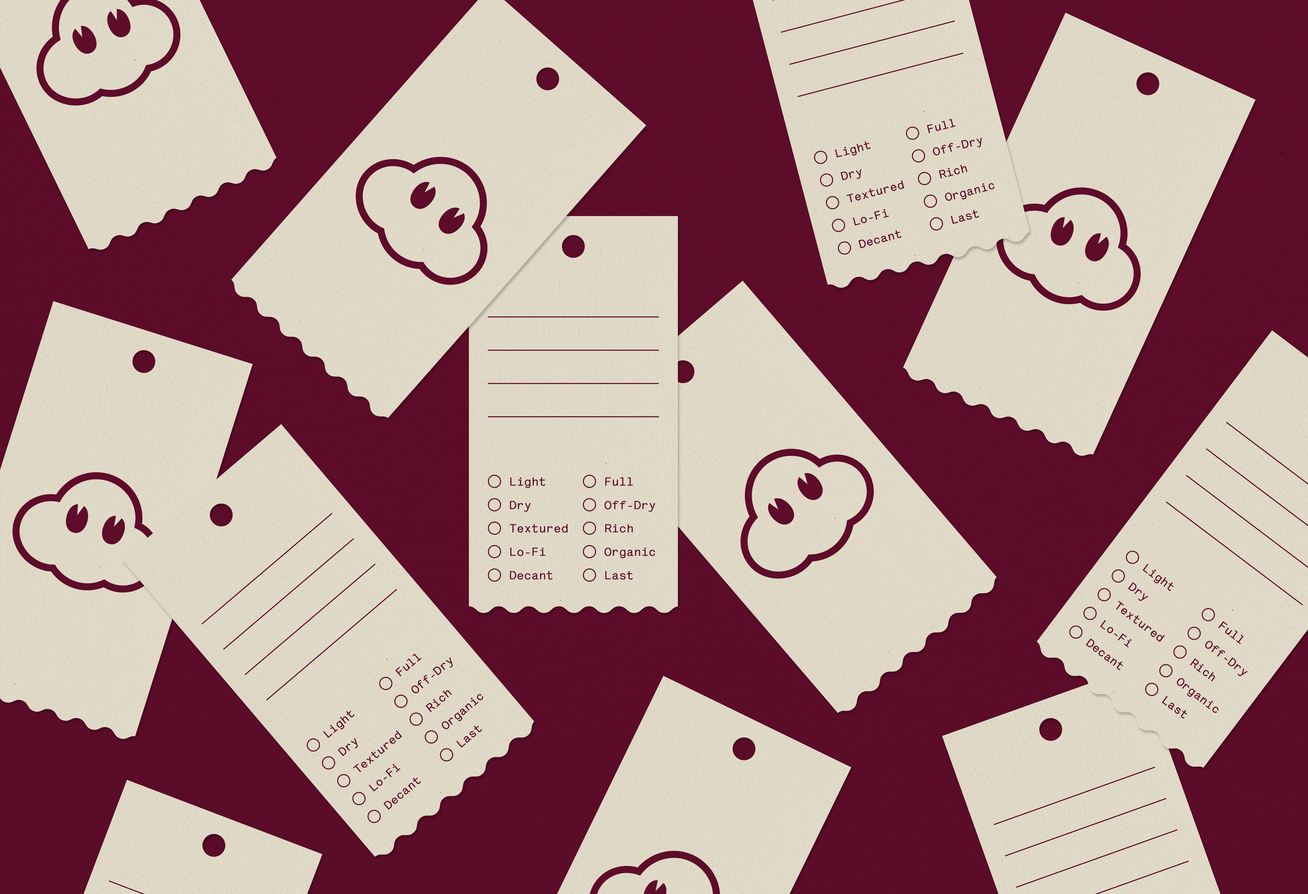
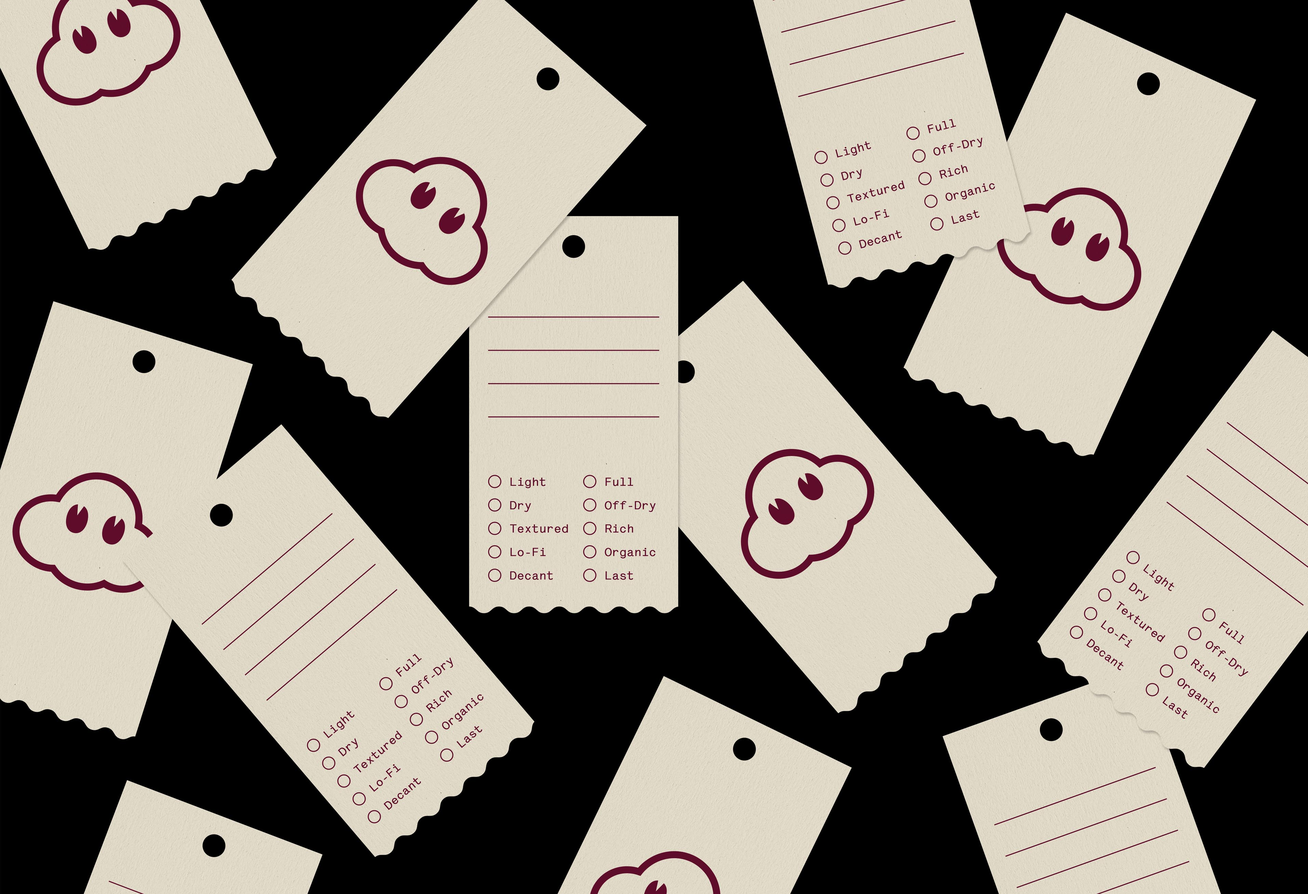
flo updates

diff --git a/src/pages/info.js b/src/pages/info.js
@@ -6,7 +6,7 @@ export default function InfoPage() {
     <div className="Info">
       <div className="left">is a Melbourne-born communications designer taking time off to eat, drink and nap <a href="http://holidaze.florenceltf.com/">around the world</a>. Currently freelancing abroad with <a href="https://www.round.com.au">Studio Round</a>. 
       <br></br><br></br>
-      For any portfolio or freelance enquiries, please <a href="mailto:florenceltf@gmail.com">email</a>. For any other enquiries, still please <a href="mailto:florenceltf@gmail.com">email</a>.
+      For any portfolio or freelance enquiries, please <a href="mailto:florenceltf@gmail.com">email</a>. For any other enquiries, please still <a href="mailto:florenceltf@gmail.com">email</a>.
     </div>
 
       <div className="right">

diff --git a/src/layouts/index.css b/src/layouts/index.css
@@ -6,6 +6,7 @@ html, body, #___gatsby {
   font-family: sans-serif;
   overflow:auto;
   font-size: 24px;
+  line-height: 30px;
 }
 
 ::selection {
@@ -58,6 +59,9 @@ div {
 .Slideshow .item {
   grid-row-start: 2;
   overflow: hidden;
+  display: flex;
+  justify-content: flex-end;
+  flex-direction: column;
 }
 
 .Slideshow .index {
@@ -66,7 +70,7 @@ div {
 }
 
 .Slideshow .item .gatsby-image-wrapper {
-    max-height: 433px;
+    max-height: 440px;
     max-width: 600px;
 }
 

diff --git a/README.md b/README.md
@@ -12,31 +12,18 @@ npm run deploy:beta # This deploys to the beta server
 ### Desktop
 
 #### Home page
-- [x] Pixelated images
-- [x] Order the images
-
-#### Information page
-- [x] Remove clickable link of ‘Information’
-- [x] Invert colors
-
-### Mobile (Portrait)
-
-#### Home page
-- [x] Pixelated images
-- [x] Centre image vertically
-- [x] Information link to appear bottom left
+- [ ] Make number align to top of slideshow
 
 ### Mobile (Landscape)
 
 - [ ] Home page to be information page only
-- [x] Make background black
+
 
 ##################### Not as important #####################
 
 ### Desktop
 
 #### Projects page
-- [x] Change links name to ‘projects’
 - [ ] Remove ‘Florence Li Ting Fong’ and ‘Information’
 - [ ] Add captions underneath, centred
 - [ ] Add back button at bottom of screen as per ‘Info’ page
